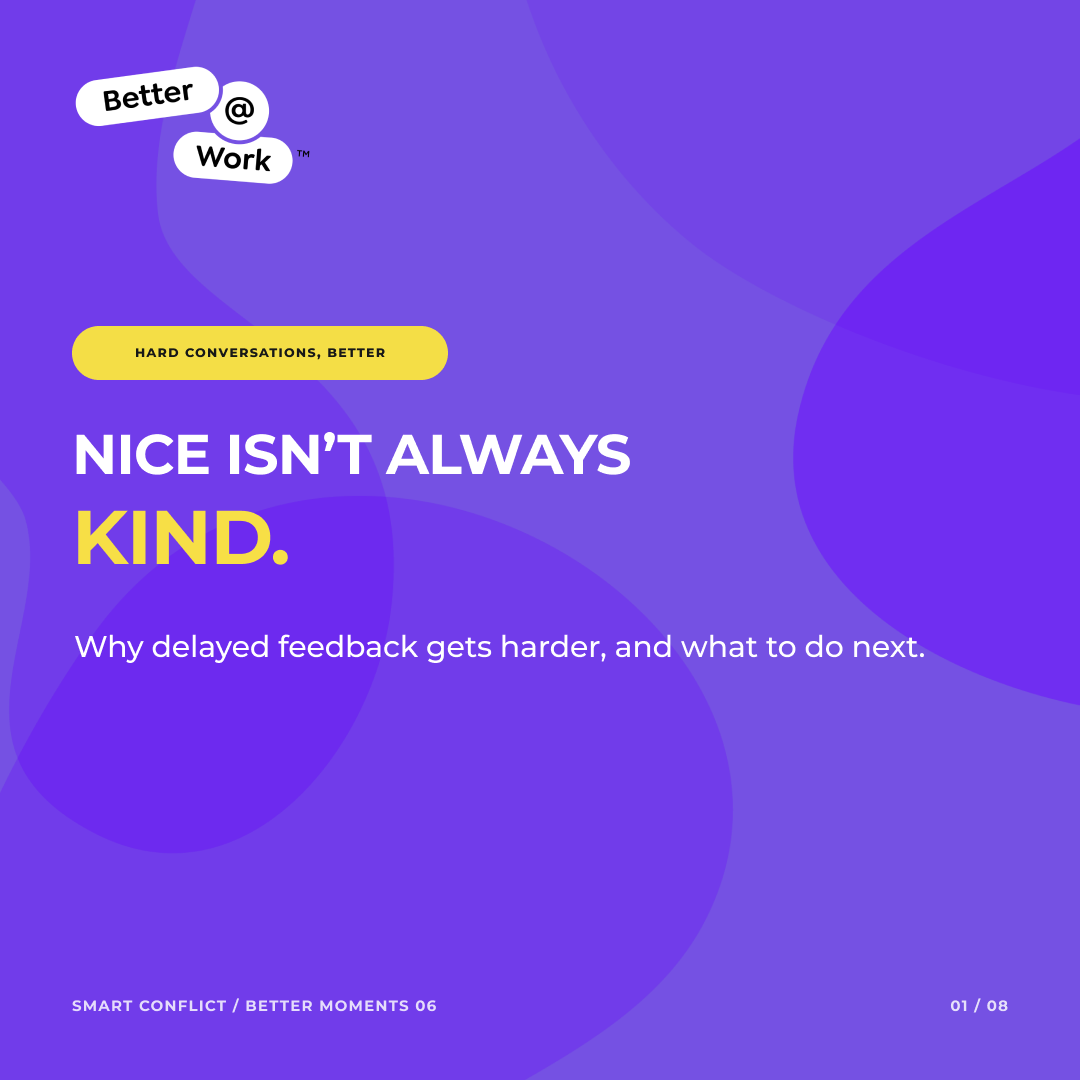
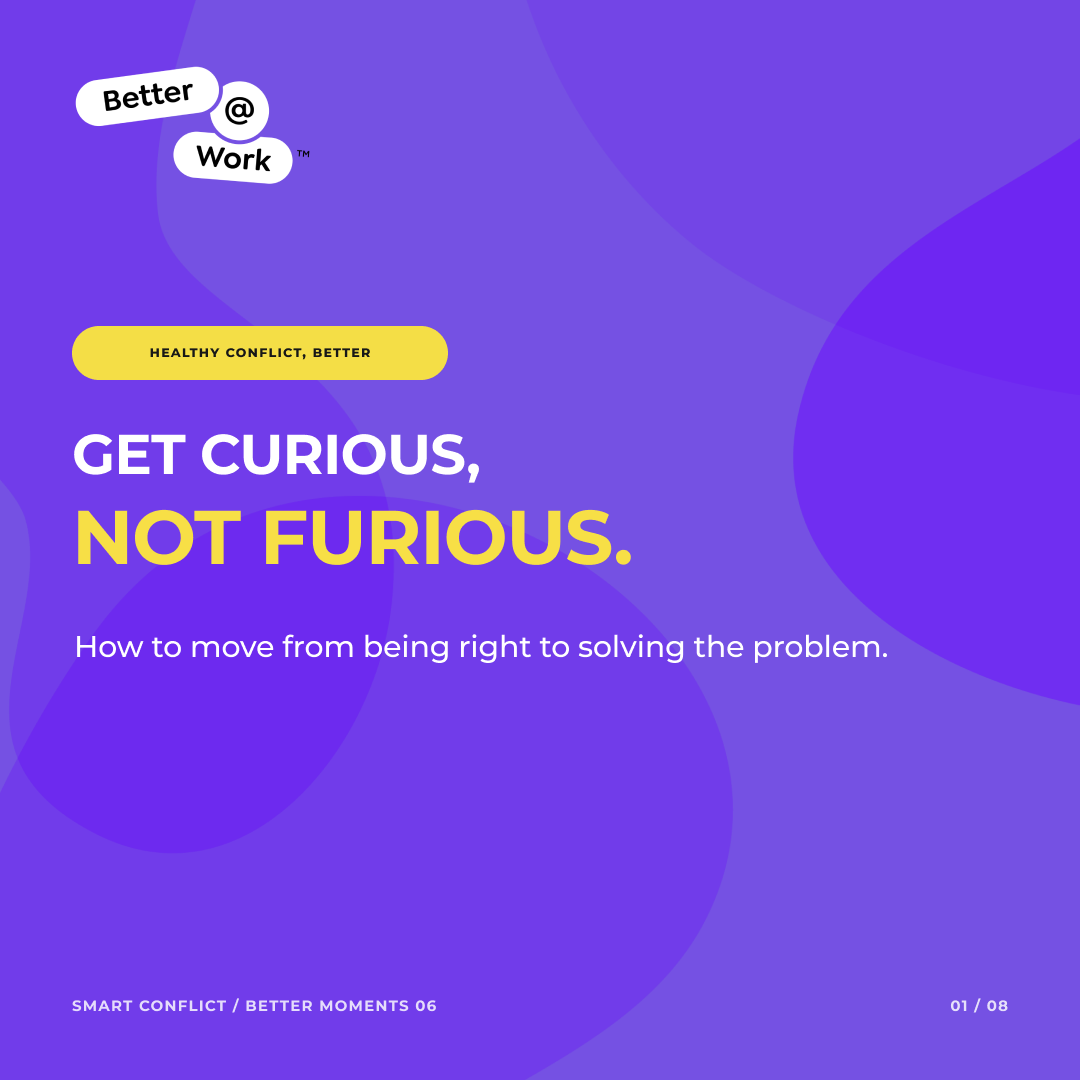
Align Better Moments Smart Conflict artwork

Changed region(s): [[0.0611, 0.3972, 0.5806, 0.5194], [0.0611, 0.5806, 0.8556, 0.6111], [0.1222, 0.3056, 0.3667, 0.3361]]

diff --git a/SYSTEM-STATUS.md b/SYSTEM-STATUS.md
@@ -2,7 +2,7 @@
 
 Current engineering handoff for Harrison, Claude, and Codex. Read this on session start. Update it only when system architecture, rollout state, automation ownership, or safety boundaries change. Daily business state stays in `today.md` and the domain files.
 
-Last updated: 14 August 2026
+Last updated: 20 August 2026
 
 ## Operating model
 
@@ -44,7 +44,7 @@ Verified on the Mac mini:
 - The Board Room's `brace-expansion`, PostCSS and locked Vercel CLI transitive advisories are patched. `pnpm audit --audit-level low` reports no known vulnerabilities.
 - The nightly Board Room deploy was blocked on 4 and 5 August because deploy-side validation restamped the tracked snapshot. Frozen-snapshot verification fixed that on 6 August. The 6 to 9 August deploys were then blocked by js-yaml GHSA-5p4m-2wfm-xmqj and nanoid GHSA-2v37-7h3g-55p8. PR #12 merged both dependency patches at 06:44 on 10 August. Its post-merge Board Room check exposed two unrelated, state-dependent test defects when the new weekly board arrived: a hard-coded requirement for two completions at the start of a week, and inconsistent ordering for equal scores. PR #20 merged the repair at 07:53 on 10 August with every branch and pull-request check green. Audit, lint, all 16 tests and the production build pass. Production was refreshed on 10 August with the current weekly snapshot after a clean-checkout validation and successful authenticated live-state check.
 - The Better at Work summer tracker was hardened and deployed at 20:43 BST on 3 August. Writes now require the edit key, exact same-origin requests, JSON content and bounded payloads. Browser security headers are live and its dependency audit reports no known vulnerabilities.
-- The separate Better at Work public-site branch was finished for Cathal's end-of-week review on 6 August. It adopts the approved original outlined mark across masthead, footer, icon and social preview, refreshes the Acast snapshot to 85 episodes including Better Moments #4, and wires Better Careers checkout end to end: a Stripe Checkout API route, buy buttons and a noindex confirmation page. Checkout is dormant with truthful cannot-take-payment states until `STRIPE_SECRET_KEY` and `STRIPE_CHECKOUT_PRICE_ID` are set; price, currency, refund terms and fulfilment remain undecided client decisions. Content verification, typecheck, the 99-page build and low-threshold audit pass locally and in GitHub Actions. A same-day polish pass verified the site against the Brand Playground Figma variables, repaired feed whitespace and markdown artefacts at render time, reweighted the Work Problem Finder toward the visitor's own words, added a branded 404, and corrected the dead Spotify and YouTube footer links. The protected Vercel preview was redeployed from the merged commit and still fails closed behind Vercel SSO. The branch remains unmerged to `main` and production at betteratwork.net is unchanged. A pre-merge safety stash of the previously uncommitted brand alignment sits in the `HWL META-baw-site` worktree, superseded by commit `81e680c`.
+- The separate Better at Work public-site branch was finished for Cathal's end-of-week review on 6 August. It adopts the approved original outlined mark across masthead, footer, icon and social preview, refreshes the Acast snapshot to 85 episodes including Better Moments #4, and wires Better Careers checkout end to end: a Stripe Checkout API route, buy buttons and a noindex confirmation page. Checkout is dormant with truthful cannot-take-payment states until `STRIPE_SECRET_KEY` and `STRIPE_CHECKOUT_PRICE_ID` are set; price, currency, refund terms and fulfilment remain undecided client decisions. Content verification, typecheck, the 99-page build and low-threshold audit pass locally and in GitHub Actions. A same-day polish pass verified the site against the Brand Playground Figma variables, repaired feed whitespace and markdown artefacts at render time, reweighted the Work Problem Finder toward the visitor's own words, added a branded 404, and corrected the dead Spotify and YouTube footer links. The protected Vercel preview was redeployed from the merged commit and still fails closed behind Vercel SSO. The branch merged into `main` on 19 August at `83b711d`; production at betteratwork.net remains unchanged and client-gated. Its clean, fully merged `HWL META-baw-site` worktree was removed on 20 August. No stash remained.
 - Vercel could not attach the repository because the Vercel account has no GitHub login connection. The existing nightly backup therefore owns the refresh and production deployment path through the locally linked Vercel project. No additional scheduler was created.
 - Morning brief, verifier, weekly review and campaign chaser source rules were corrected on 27 July. They must verify the connected Gmail identity, check live Creepers and Better at Work dashboards, validate draft claims against Gmail, use only the canonical training plan, and diagnose a failure before escalating it.
 - Publication-source precedence was corrected on 31 July after the Creepers calendar falsely contradicted content that was already live. Planning dashboards now govern planned work and queue order only. Harrison's explicit correction, the live social post or Buffer's published record governs whether content shipped. The existing Buffer MCP needs re-authentication before it can provide unattended published and failed-post checks. No new scheduler was created.
@@ -68,7 +68,8 @@ Verified on the Mac mini:
 - Disk investigation, 13 August. Free space fell from roughly 93 GB at 13:00 to about 30 GB by 15:20, with no single large consumer. Two causes, neither a leak. First, iCloud is reconciling: `bird` was at 98.4% CPU after Optimise Mac Storage was enabled at midday, and macOS materialises files while reconciling before eviction begins, so the space should return. Second, most of the apparent delta is reclassification, not consumption: `Library` fell from 494 GB to 88 GB while `Documents` rose from 30 GB to 454 GB as the iCloud container reorganised, and the two roughly offset. **Operational rule: do not run `du` over `~/Documents`, `~/Downloads` or `~/Library/Mobile Documents`.** Walking a dataless file on macOS can make `bird` materialise it, so scanning iCloud-managed directories feeds the very number being measured. Watch `df` instead, which does not touch files.
 - Branch and ref clean-out, 13 August, after Phase 1. Remote branches went from 16 to 3: `main`, `codex/baw-frontier-site` (live Better at Work site, 15 unmerged commits, verified still sharing ancestry with the rewritten main at `ada748f6` and still merging cleanly, so no rebase was needed) and `codex/dream-body-plan` (open draft PR #1). Four branches were deleted after verifying each was merged or redundant: `codex/creepers-session-2` (PR #21), `codex/system-reconciliation-2026-08-10` (PR #20), `claude/sunday-evening-checkin-hdykdc` (PR #12) and `claude/baw-site-finish` (no PR; its only unique content was a `launch.json`, now merged into `.claude/launch.json` beside the `hwl-logo-motion` config). The nine Dependabot pull requests were **closed rather than merged**, each with a comment explaining why: their bases predate the history rewrite, so merging would have reintroduced the removed media into `main`. Nothing was rejected on its merits and Dependabot will re-propose against the rewritten history. Locally, nine stale branches, nine Dependabot branches, five Codex turn-diff refs and 21 `refs/remotes/pr/*` refs were removed; the three 3 August hardening branches were checked feature-by-feature against `main` first (auth preflight with exit 78, SHA-pinned actions and `dependabot.yml`, Board Room same-origin and nonce CSP) rather than trusted by commit ancestry, which is unreliable after a rewrite. Zero refs now carry client media or the financial documents. `.git` holds at 1.4 GB. **Known remaining fat: `tmp/` still occupies 264 MB of history even though it is now gitignored, and `content/inspo/raw` holds 237 MB of downloaded reference video.** Both are candidates for the next rewrite. That rewrite is deliberately deferred: two chip-spawned worktree sessions currently occupy `claude/lucid-goldstine-eb493c` and `claude/sharp-bartik-396cb4`, and rewriting would disturb live sessions for a roughly 19% gain. Batch it with the next planned rewrite once those sessions close.
 - Sensitive-document exposure found and closed, 13 August. `tmp/` was tracked, not ignored, and the 12 August commit `31a9fbd` pushed two ASB bank statement images and sixteen completed Milford KiwiSaver form images plus the draft KiwiSaver PDF to `origin/main`. The repository is private and single-owner, and a full gitleaks scan of all 198 commits still reports no leaks, because gitleaks matches credential patterns in text and cannot see inside a scanned document. That is the blind spot. Three fixes are now in place: the 21 documents moved to `private/`, `private/` and `tmp/` are both gitignored and untracked, and `agents/nightly-backup.sh` gained a path-based guard that runs before both the secret scan and the commit and aborts the backup if a financial or identity document is staged. The guard is scoped to document and image extensions so prose that merely mentions a statement still commits normally. Three tests cover it, including one that executes the shell matcher against real leaked paths and against files that must stay allowed. The suite is 61 tests, all passing. **Still open and Harrison's call: the documents remain in Git history on `origin/main`.** Removing them needs a `git filter-repo` history rewrite and a force push, which would break the nightly backup's pushed-SHA verification and must be coordinated with Codex. Given a private single-owner repository, the residual risk is low but not zero.
-- Disk cleanup, 13 August. The Mac mini was at 98% full with 19 GB free, which put the nightly backup, the Board Room build and all video work at risk. Four merged worktrees were removed (`HWL META-baw-jennifer-moss`, `HWL META-board-room`, `HWL META-system-reconciliation`, `.claude/worktrees/upbeat-knuth-d31e89`) plus the merged `fuckaroundfindout-jarvis` worktree, along with six local branches carrying zero commits not in `main`. `HWL META-baw-site` is deliberately retained: it holds 15 unmerged commits and the live Better at Work site. Its `stash@{0}` safety stash lives in the shared repository and is unaffected. Every removed worktree was verified clean and fully merged first, and its Git LFS media confirmed present in the main checkout. Worktrees of this repository cost 2 to 4 GB each because each one materialises its own physical copy of the LFS podcast masters, so future engineering worktrees should be removed with `git worktree remove` as soon as their branch merges. Free space went from 19 GB to 100 GB. `tmp/` was inspected and deliberately not cleared: it is not gitignored, holds 375 tracked files, and contains the live Milford KiwiSaver forms and ASB bank statement images.
+- Disk cleanup, 13 August. The Mac mini was at 98% full with 19 GB free, which put the nightly backup, the Board Room build and all video work at risk. Four merged worktrees were removed (`HWL META-baw-jennifer-moss`, `HWL META-board-room`, `HWL META-system-reconciliation`, `.claude/worktrees/upbeat-knuth-d31e89`) plus the merged `fuckaroundfindout-jarvis` worktree, along with six local branches carrying zero commits not in `main`. `HWL META-baw-site` was deliberately retained at that point because it held 15 unmerged commits and the live Better at Work site. Every removed worktree was verified clean and fully merged first, and its Git LFS media confirmed present in the main checkout. Worktrees of this repository cost 2 to 4 GB each because each one materialises its own physical copy of the LFS podcast masters, so future engineering worktrees should be removed with `git worktree remove` as soon as their branch merges. Free space went from 19 GB to 100 GB. The retained Better at Work worktree was clean, merged and removed on 20 August. Disk remained at 98% with 24 GiB available, so the capacity risk is live again. Do not scan iCloud-managed directories with `du`; monitor with `df`.
+- Startup reconciliation, 20 August. The 19 August nightly backup committed locally but could not push because remote PR #35 added an obsolete Tasha Eurich Better Moments #6 package after Harrison had selected Smart Conflict locally. `origin/main` and local `main` were reconciled in merge commit `15da27b`, with the Tasha package retained and clearly marked superseded, the Smart Conflict package kept active, all 90 root tests passing, state consistency clean, and doctor at 16 passed, 0 failed. The pushed SHA was independently matched to `origin/main`, so tonight's backup no longer faces that divergence.
 - Four production faults were repaired on 14 August morning, all verified live. **Board Room:** nanoid advisory GHSA-2v37-7h3g-55p8 widened to <3.3.18 during 13 August with no dependency change on our side, re-failing the audit gate and blocking the 22:30 deploy; the override moved from 3.3.17 to 3.3.18 and audit, lint, all 16 tests and the production build pass, so tonight's deploy is unblocked. **Root CI:** the python jobs' sparse checkout never fetched `today.md`, `this-week.md`, `agents/STATE-OWNERSHIP.md` or `agents/evening-reflection.md`, so the Phase 2 contract tests failed on FileNotFoundError three runs in a row; the four files are now in the checkout list, and the committed snapshot was verified consistent before pushing. **Linear:** the workspace crossed Linear's free-plan cap of 250 unarchived issues (275 at diagnosis), so every hourly `issueCreate` failed with "usage limit exceeded" from 13 August ~07:00 to 14 August 08:00, a roughly 25-hour sync outage; `linear/archive-closed.js` archived 219 issues closed more than 7 days with no live `this-week.md` marker (reversible per-issue), and a kickstarted sync then created HWL-276 to HWL-279 cleanly. **Recurrence risk is real: at the current issue creation rate the cap returns in roughly three weeks.** No archive schedule was created, deliberately; the options are a periodic `archive-closed.js` step in the nightly backup or a Linear upgrade, and that is Harrison's call. **Lab sends:** form-lab's 13 August message parked unsent because agent Claude runs under acceptEdits and curl needs interactive approval; `agent-runtime.sh` gained a generic `hwl_send_telegram`, form-lab and pattern-lab now write their one message to `agents/outbox/<agent>-<date>.md` and the wrapper delivers it after the run, the same wrapper-side send architecture the morning brief already uses. `STATE-OWNERSHIP.md` records the outbox convention, form-lab's prose no longer claims a write to `content/pipeline.md` (content-engine owns it, and the 13 August run had correctly refused the write), and the parked 13 August message was delivered through the new helper as its live test. Suite is 90 tests all passing, doctor 16 passed 0 failed.
 - No Codex automation has been created.
 

diff --git a/business/clients/baw/production/better-moments-06-smart-conflict-2026-08-19/carousel.md b/business/clients/baw/production/better-moments-06-smart-conflict-2026-08-19/carousel.md
@@ -1,86 +1,82 @@
-# Wednesday carousel, HOLD
+# Social carousel, DRAFT
 
-**Do not publish the complete carousel in its current form.** It was built around the rejected feedback and silence angle. Slides 6 and 7 match Harrison's final 04:25 cut. Slides 1 to 5 and 8 use wider full-conversation material and need a new editorial decision before publication.
+The eight-slide Instagram and LinkedIn carousel now follows Harrison's approved 00:04:25:18 Smart Conflict excerpt. The Figma source and local exports were realigned on Thursday 20 August 2026. Nothing has been posted, scheduled or sent.
 
 ## Campaign idea
 
-**Superseded route: Nice is not always kind.**
+**Get curious, not furious.**
 
-The existing carousel starts with the false choice between care and clarity, then turns the wider conversation into seven practical moves. That is no longer the argument made by the approved Better Moment.
+The route explains the two forces in the conversation: conflict confidence, and whether someone is trying to get it right or prove that they are right. It then moves from enforced harmony to the singles-versus-doubles model and closes on one prepared question.
 
-Everything remains DRAFT. Nothing has been posted. Keep the frames for possible full-episode companion use, but do not treat them as launch artwork for the final cut.
+All frames remain DRAFT pending Harrison's visual approval.
 
 ## Slide copy
 
 ### 1. Cover
 
-Eyebrow: HARD CONVERSATIONS, BETTER
+Eyebrow: HEALTHY CONFLICT, BETTER
 
-Headline: NICE ISN'T ALWAYS KIND.
+Headline: GET CURIOUS, NOT FURIOUS.
 
-Subhead: Why delayed feedback gets harder, and what to do next.
+Subhead: How to move from being right to solving the problem.
 
 Footer: SMART CONFLICT / BETTER MOMENTS 06
 
-### 2. When care blocks clarity
+### 2. The two forces
 
 Number: 01
 
-Eyebrow: WHEN CARE BLOCKS CLARITY
+Eyebrow: THE TWO FORCES
 
-Headline: Silence can feel kind.
+Headline: Conflict has two axes.
 
-Body: Avoiding the conversation protects the moment. It can also deny someone the chance to understand, improve and grow.
+Body: How confident are you around conflict? And are you trying to get it right, or prove that you are right?
 
-Callout label: THE POINT
+Callout label: START HERE
 
-Callout: Kindness can include respect, honesty and compassion.
+Callout: Confidence is only half the story.
 
-### 3. Permission
+### 3. Conflict confidence
 
 Number: 02
 
-Eyebrow: BEFORE THE FEEDBACK
+Eyebrow: THE FIRST AXIS
 
-Headline: Ask before you tell.
+Headline: Do you charge in or avoid?
 
-Body: Unexpected criticism can send people into fight, flight or freeze. A simple invitation gives them a moment to prepare.
+Body: Some people tolerate the discomfort. Others will do almost anything to avoid even a slightly edgy conversation.
 
-Callout label: TRY THIS
+Callout label: NOTICE
 
-Callout: "Are you happy for me to give you some feedback?"
+Callout: Your default shapes how you enter the conversation.
 
-### 4. The threat
+### 4. Solve or win
 
 Number: 03
 
-Eyebrow: WHY IT FEELS SO BIG
+Eyebrow: THE SECOND AXIS
 
-Headline: Feedback hits three places.
+Headline: Are you solving, or winning?
 
-Body:
+Body: A strong desire to be right can push you into an inflexible response, even if you usually avoid conflict.
 
-- PERFORMANCE: Am I making the grade?
-- RELATIONSHIP: Do you still respect me?
-- SELF: Is this who I am?
+Callout label: THE SHIFT
 
-Callout label: REMEMBER
+Callout: Solve the problem. Do not score the point.
 
-Callout: The reaction is not only about the task.
-
-### 5. The cost
+### 5. Enforced harmony
 
 Number: 04
 
-Eyebrow: THE COST OF WAITING
+Eyebrow: THE CULTURE TRAP
 
-Headline: "Why did nobody tell me?"
+Headline: Harmony can hide disagreement.
 
-Body: Delayed feedback creates missed performance. When it finally arrives, the person also has to reckon with how long others have known.
+Body: A nice culture is not always a healthy one. Enforced harmony can crowd out the disagreement a team needs.
 
-Callout label: THE COST
+Callout label: WATCH FOR
 
-Callout: The later it lands, the harder it can be to accept.
+Callout: No tension can still hide a real problem.
 
 ### 6. Doubles
 
@@ -110,15 +106,15 @@ Callout label: TRY THIS
 
 Callout: Prepare one question before the conversation.
 
-### 8. The ripcord
+### 8. One question
 
 Number: 07
 
-Eyebrow: KEEP THIS PHRASE READY
+Eyebrow: ONE QUESTION CHANGES THE ROOM
 
-Headline: Buy time without avoiding.
+Headline: Start with one real question.
 
-Body: "I wasn't expecting to have this conversation. I need some time to reflect so I can give you a considered response."
+Body: If you go from nought to 100, a prepared question interrupts the heat. If you avoid, curiosity gives you a way in.
 
 Callout label: BETTER MOMENTS 06
 
@@ -130,29 +126,29 @@ All 19 frames are live in the Better at Work production file:
 
 https://www.figma.com/file/l5AZW9U1YF0Qe2P7cQdjzJ
 
-They remain named `DRAFT / Better Moments 06 / Smart Conflict / ...`. They use the approved Better Moments production system: Montserrat Bold and Medium, the outlined Better at Work mark, violet organic fields, alternating cream and ink interiors, compact numbered pills and yellow callouts.
+They remain named `DRAFT / Better Moments 06 / Smart Conflict / ...`. They use the Better Moments production system: Montserrat Bold and Medium, the outlined Better at Work mark, violet organic fields, alternating cream and ink interiors, compact numbered pills and yellow callouts.
 
 Instagram carousel, 1080 x 1350, y = 60300:
 
 - `1170:14` cover
-- `1170:28` silence can feel kind
-- `1170:39` ask before you tell
-- `1170:50` feedback hits three places
-- `1170:61` why did nobody tell me
+- `1170:28` two axes
+- `1170:39` conflict confidence
+- `1170:50` solve or win
+- `1170:61` enforced harmony
 - `1170:72` move to doubles
 - `1170:83` get curious, not furious
-- `1170:94` buy time without avoiding
+- `1170:94` one question
 
 LinkedIn carousel, 1080 x 1080, y = 61900:
 
 - `1171:14` cover
-- `1171:28` silence can feel kind
-- `1171:39` ask before you tell
-- `1171:50` feedback hits three places
-- `1171:61` why did nobody tell me
+- `1171:28` two axes
+- `1171:39` conflict confidence
+- `1171:50` solve or win
+- `1171:61` enforced harmony
 - `1171:72` move to doubles
 - `1171:83` get curious, not furious
-- `1171:94` buy time without avoiding
+- `1171:94` one question
 
 Launch row, y = 63300:
 
@@ -164,15 +160,15 @@ Rename `DRAFT` to `FINAL` only after Harrison approves the package.
 
 ## Launch artwork copy and gate
 
-The existing Instagram and LinkedIn launch graphics are on hold because the cost-of-silence angle is outside the final cut. The YouTube graphic remains aligned and can be used.
+The Instagram and LinkedIn launch graphics now follow the approved Smart Conflict excerpt. The YouTube graphic remains aligned. All three remain DRAFT until Harrison approves the revised social route.
 
 Instagram and LinkedIn:
 
 - Eyebrow: BETTER MOMENTS 06
-- Headline: THE COST OF / SILENCE.
-- Support: Feedback gets harder the longer it waits.
+- Headline: GET CURIOUS, / NOT FURIOUS.
+- Support: From singles to doubles. Both against the problem.
 - Guests: ALICE DRISCOLL + LOUISE VAN HAARST
-- Promise: Ask permission. Get on the same side. Keep a ripcord ready.
+- Promise: Get it right, not be right. Get curious, not furious.
 - Button: OUT NOW
 - Footer: BEST BITS FROM BETTER AT WORK / SEASON 4
 
@@ -183,20 +179,20 @@ YouTube:
 - Guests: ALICE DRISCOLL + LOUISE VAN HAARST
 - Promise: Get on the same side of the problem.
 
-The YouTube headline is fitted at 124 px. All three launch frames use the split Alice and Louise portrait from `assets/alice-driscoll-louise-van-haarst-dual-portrait.jpg`.
+All three launch frames use the split Alice and Louise portrait from `assets/alice-driscoll-louise-van-haarst-dual-portrait.jpg`.
 
 ## Exports
 
 Instagram carousel:
 
 - `artwork/carousel/01-cover.png`
-- `artwork/carousel/02-silence-can-feel-kind.png`
-- `artwork/carousel/03-ask-before-you-tell.png`
-- `artwork/carousel/04-feedback-hits-three-places.png`
-- `artwork/carousel/05-why-did-nobody-tell-me.png`
+- `artwork/carousel/02-two-axes.png`
+- `artwork/carousel/03-conflict-confidence.png`
+- `artwork/carousel/04-solve-or-win.png`
+- `artwork/carousel/05-enforced-harmony.png`
 - `artwork/carousel/06-move-to-doubles.png`
 - `artwork/carousel/07-get-curious-not-furious.png`
-- `artwork/carousel/08-buy-time-without-avoiding.png`
+- `artwork/carousel/08-one-question.png`
 
 LinkedIn carousel uses the same filenames under `artwork/carousel-linkedin/`.
 
@@ -208,9 +204,9 @@ Launch:
 
 ## Sources
 
-- Slides 1 to 5: wider full programme material around 16:58 to 24:38. This is outside the approved Better Moment.
+- Slides 2 to 4: approved Better Moment from 00:00 to 01:10, conflict confidence and getting it right versus being right.
+- Slide 5: approved Better Moment around 01:43, enforced harmony versus healthy disagreement.
 - Slide 6: approved Better Moment around 02:10 to 03:01, relational conflict versus task conflict and singles versus doubles.
-- Slide 7: approved Better Moment around 03:21 to 04:25, getting curious at both ends of the conflict scale.
-- Slide 8: wider full programme material after 44:09. The ripcord phrase begins just outside the approved out point.
+- Slides 7 and 8: approved Better Moment around 03:21 to 04:25, getting curious at both ends of the conflict scale.
 
-Only slides 6 and 7 directly describe the final cut. The complete carousel remains on hold.
+The complete carousel now describes the approved 04:25 cut. It remains a draft until Harrison gives the visual go.

diff --git a/business/clients/baw/production/better-moments-06-smart-conflict-2026-08-19/publish-checklist.md b/business/clients/baw/production/better-moments-06-smart-conflict-2026-08-19/publish-checklist.md
@@ -1,6 +1,6 @@
 # Publish checklist
 
-Updated Wednesday 19 August 2026. Nothing has been uploaded, sent, scheduled or published from this package.
+Updated Thursday 20 August 2026. Nothing has been uploaded, sent, scheduled or published from this package.
 
 ## Package prepared
 
@@ -15,7 +15,8 @@ Updated Wednesday 19 August 2026. Nothing has been uploaded, sent, scheduled or 
 - [x] Teaser SRT, VTT and ASS sidecars retained. No captions are burned into the video.
 - [x] Acast, Spotify, YouTube, social and newsletter copy rewritten around conflict confidence, singles versus doubles, and curiosity.
 - [x] Existing YouTube thumbnail confirmed as aligned with the final cut.
-- [x] Mismatched Instagram, LinkedIn and carousel artwork placed on hold in the handoff notes.
+- [x] Instagram, LinkedIn and carousel draft artwork realigned to the approved 04:25 excerpt in Figma.
+- [x] Revised artwork exported at the correct delivery dimensions and checked in contact sheets.
 
 ## Final export and QC
 
@@ -38,12 +39,12 @@ Updated Wednesday 19 August 2026. Nothing has been uploaded, sent, scheduled or 
 - [ ] Confirm the final YouTube and Acast destination URLs.
 - [ ] Replace the newsletter's bracketed CTA with the tested Better Moments #6 URL.
 - [ ] Confirm Alice Driscoll and Louise van Haarst social handles before tagging.
-- [ ] Keep the Instagram, LinkedIn and carousel artwork on hold until it is aligned to the approved excerpt.
+- [ ] Harrison approves the revised Instagram, LinkedIn and carousel artwork.
 
 ## Release sequence
 
-- [ ] Wed 19 Aug: upload the final 04:25 master and aligned thumbnail to YouTube as private or unlisted.
-- [ ] Wed 19 Aug: verify the full upload, chapters, description, end screen and links before scheduling.
+- [ ] Thu 20 Aug: upload the final 04:25 master and aligned thumbnail to YouTube as private or unlisted.
+- [ ] Thu 20 Aug: verify the full upload, chapters, description, end screen and links before scheduling.
 - [ ] Thu 20 Aug, 12:30 BST: publish Better Moments #6 to YouTube.
 - [ ] Thu 20 Aug, 12:30 BST: publish to Acast if the audio release is approved.
 - [ ] Thu 20 Aug: use only social assets that match the final excerpt.

diff --git a/business/clients/baw/production/better-moments-06-smart-conflict-2026-08-19/README.md b/business/clients/baw/production/better-moments-06-smart-conflict-2026-08-19/README.md
@@ -1,6 +1,6 @@
 # Better Moments #6: Smart Conflict
 
-Production package updated Wednesday 19 August 2026 for the Thursday 20 August release. Harrison has approved the 00:04:25:18 editorial selection. The final Premiere export, copy and publishing destinations remain pending. Nothing in this package has been uploaded, sent, scheduled or published.
+Production package updated Thursday 20 August 2026 for today's release. Harrison has approved the 00:04:25:18 editorial selection. The final Premiere export, external signoff and publishing destinations remain pending. Nothing in this package has been uploaded, sent, scheduled or published.
 
 ## The call
 
@@ -79,17 +79,17 @@ The regenerated main SRT, VTT and readable transcript are based on the final 04:
 
 ## Artwork gate
 
-The existing YouTube thumbnail is aligned and can be used:
+The YouTube thumbnail remains aligned:
 
 `artwork/launch/BetterAtWork-BetterMoments-06-SmartConflict-YouTube.png`
 
-Hold the current Instagram and LinkedIn launch graphics and the eight-slide carousel. They were built around the rejected feedback and silence angle. Slides about singles versus doubles and curiosity remain valid, but the complete sets do not match this cut.
+The Instagram and LinkedIn launch graphics and both eight-slide carousel formats were realigned to the approved 04:25 excerpt on 20 August. Refreshed local exports and contact sheets are in the package.
 
 All 19 source frames remain live and editable in the Better at Work production file:
 
 https://www.figma.com/file/l5AZW9U1YF0Qe2P7cQdjzJ?type=design&node-id=1170-14
 
-The frames remain named DRAFT. Do not rename them until the mismatched social artwork is resolved.
+The frames remain named DRAFT pending Harrison's visual approval. Do not rename them or publish the exports until that approval is recorded.
 
 ## Package map
 

diff --git a/business/clients/baw.md b/business/clients/baw.md
@@ -6,10 +6,10 @@ Workplace podcast. Hosts: **Cathal Quinlan** (primary contact) + **Annette Sloan
 
 Active. April reset after honest conversation about declining metrics. Hourly trial in place. April skipped by mutual agreement (March deliverables didn't meet standard).
 
-## Better Moments #6, updated 19 August 2026
+## Better Moments #6, updated 20 August 2026
 
 - Current editorial pick: **Smart Conflict**, Alice Driscoll and Louise van Haarst. Harrison approved the continuous 00:04:25:18 picture lock after reviewing and dropping the earlier Leidy Klotz and Tasha Eurich options.
-- Active package: `production/better-moments-06-smart-conflict-2026-08-19/`. Copy, captions, the aligned YouTube thumbnail and the separate curiosity teaser are prepared. The final Premiere export, technical QC, Cathal and Annette sign-off, destination URLs and aligned social artwork remain open.
+- Active package: `production/better-moments-06-smart-conflict-2026-08-19/`. Copy, captions, the curiosity teaser and all 19 Figma artwork frames are aligned to the approved 04:25 excerpt. Local delivery exports and contact sheets were refreshed on 20 August. The final Premiere export, technical QC, Cathal and Annette sign-off, destination URLs and Harrison's visual approval of the revised social artwork remain open.
 - The remote-built Tasha Eurich package is retained at `production/better-moments-06-tasha-eurich-2026-08-18/` as superseded reference material only. Do not use or publish it as Better Moments #6.
 - Target remains Thursday 20 August at 12:30 BST, subject to the remaining approval and export gates in the Smart Conflict publish checklist.
 

diff --git a/business/clients/baw/production/better-moments-06-smart-conflict-2026-08-19/copy.md b/business/clients/baw/production/better-moments-06-smart-conflict-2026-08-19/copy.md
@@ -6,13 +6,13 @@ Naming note: the correct guest name is **Louise van Haarst**. Some legacy Better
 
 ## Current artwork gate
 
-The YouTube thumbnail line **GET CURIOUS, NOT FURIOUS** matches the final cut and can be used.
+The YouTube thumbnail line **GET CURIOUS, NOT FURIOUS** matches the final cut.
 
-Hold the existing Instagram and LinkedIn launch graphics and the eight-slide carousel. They were built around the rejected feedback and silence angle. Slides about singles versus doubles and curiosity are accurate, but the full set does not faithfully describe this Better Moment.
+The Instagram and LinkedIn launch graphics and both eight-slide carousel formats were realigned to the approved excerpt on 20 August. They remain DRAFT pending Harrison's visual approval. Nothing has been posted, scheduled or sent.
 
 ## Revised carousel caption
 
-Use this only after the carousel artwork is aligned to the final cut.
+Use this only after Harrison approves the revised carousel artwork.
 
 Conflict confidence is only half the story.
 

diff --git a/business/clients/baw/production/better-moments-06-smart-conflict-2026-08-19/qc.md b/business/clients/baw/production/better-moments-06-smart-conflict-2026-08-19/qc.md
@@ -54,7 +54,16 @@ The separate curiosity teaser remains technically valid and unchanged:
 
 The YouTube thumbnail with **GET CURIOUS, NOT FURIOUS** matches the final cut.
 
-Hold the Instagram and LinkedIn launch graphics and the full carousel. They were built around the rejected feedback and silence angle and do not faithfully describe the approved 04:25 excerpt.
+The Instagram and LinkedIn launch graphics and both carousel formats were realigned to the approved 04:25 excerpt on 20 August.
+
+- Instagram carousel: eight PNGs at 1080 x 1350.
+- LinkedIn carousel: eight PNGs at 1080 x 1080.
+- Instagram and LinkedIn launch graphics: 1080 x 1350.
+- YouTube thumbnail: 1920 x 1080.
+- Figma reports no missing fonts.
+- Contact-sheet review passed for clipping, overlap, order, naming and message alignment.
+
+All frames remain named DRAFT pending Harrison's visual approval. Nothing has been posted, scheduled or sent.
 
 ## Remaining gates
 
